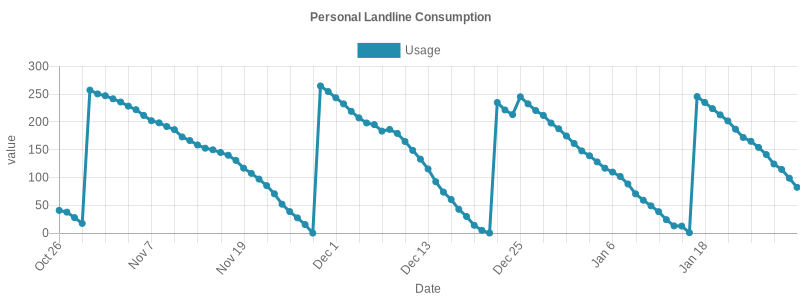
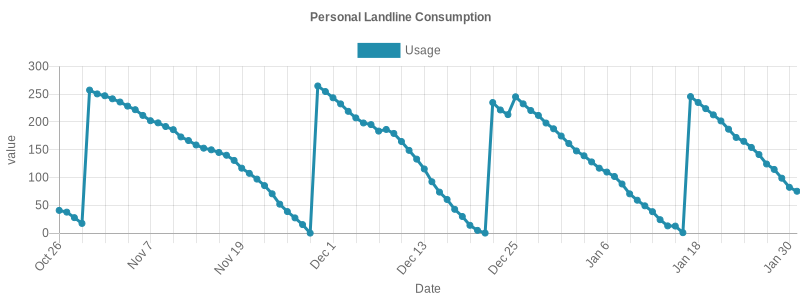
update logs

diff --git a/quota-logs/README.md b/quota-logs/README.md
@@ -95,3 +95,4 @@
 ## Sun Jan 28 2024 00:36:01 GMT+0200|114.6/250
 ## Mon Jan 29 2024 00:35:35 GMT+0200|98.82/250
 ## Tue Jan 30 2024 00:34:46 GMT+0200|82.4/250
+## Wed Jan 31 2024 00:35:05 GMT+0200|75.31/250
